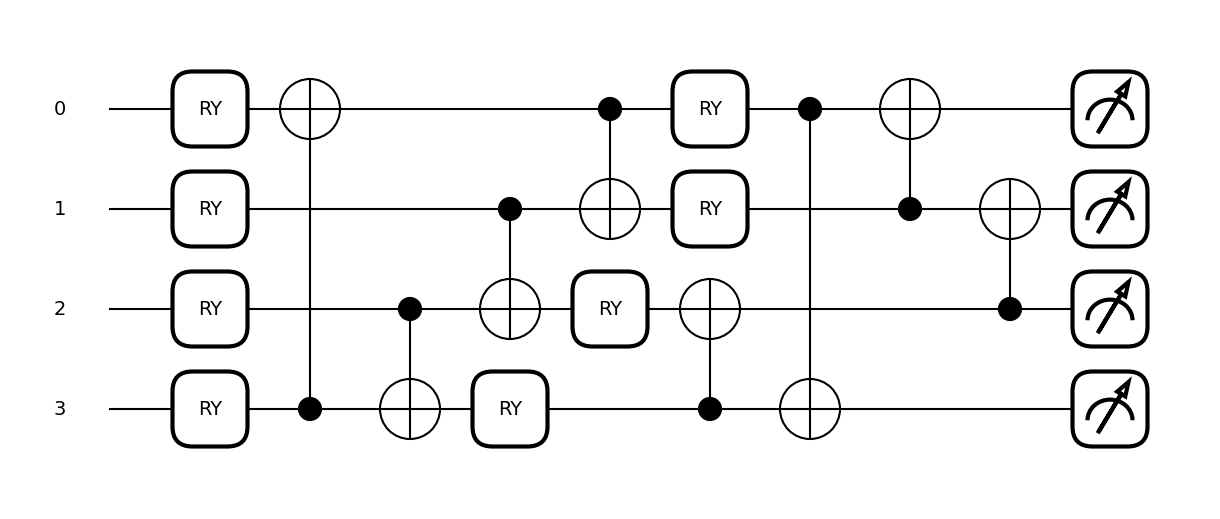
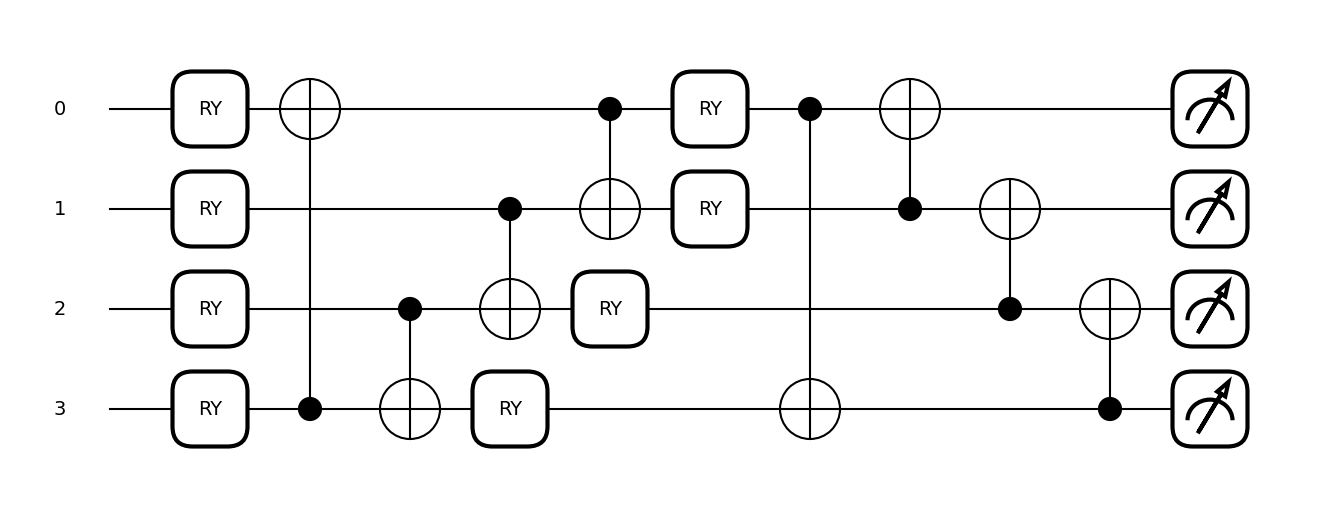
adjusted c15

diff --git a/qml_essentials/ansaetze.py b/qml_essentials/ansaetze.py
@@ -577,6 +577,29 @@ class Ansaetze:
                     gate=Gates.CX,
                     topology=Topology.stairs,
                     reverse=False,
+                    offset=lambda n: n - 1,
+                    span=1,
+                    wrap=True,
+                ),
+            )
+
+    class Circuit_15_Fix(DeclarativeCircuit):
+        @staticmethod
+        def structure():
+            return (
+                Block(gate=Gates.RY),
+                Block(
+                    gate=Gates.CX,
+                    topology=Topology.stairs,
+                    wrap=True,
+                    reverse=True,
+                    mirror=False,
+                ),
+                Block(gate=Gates.RY),
+                Block(
+                    gate=Gates.CX,
+                    topology=Topology.stairs,
+                    reverse=False,
                     mirror=False,
                     offset=lambda n: n - 1,
                     span=3,

diff --git a/docs/generate_circuits.py b/docs/generate_circuits.py
@@ -4,7 +4,7 @@ import matplotlib as plt
 from qml_essentials.model import Model
 from qml_essentials.ansaetze import Ansaetze
 
-edit_ansaetze_file = True
+edit_ansaetze_file = False
 ansaetze = Ansaetze.get_available()
 cwd = os.path.dirname(__file__)
 
